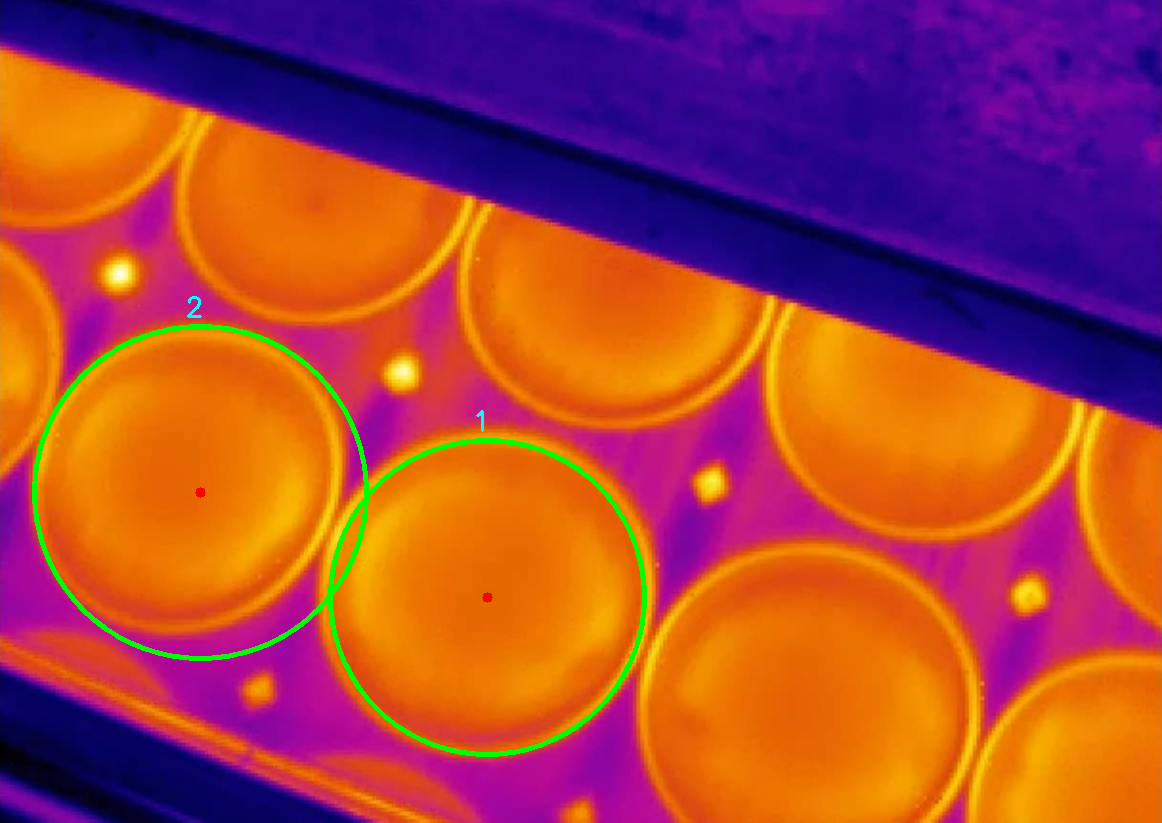
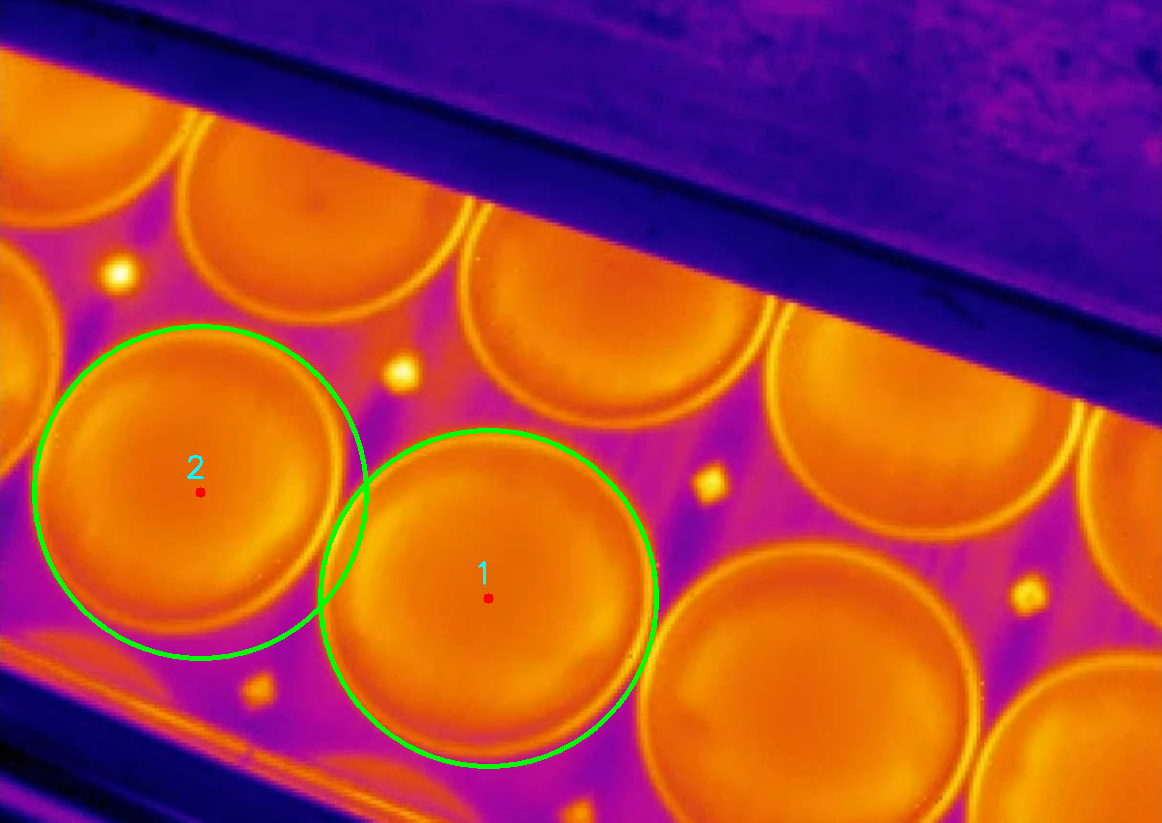
Only 2nd image inaccurate

diff --git a/batch_processor.py b/batch_processor.py
@@ -35,7 +35,7 @@ class ImprovedCircleDetector:
         return enhanced
 
 
-    def define_ROI_thermal(self, show=False):
+    def define_ROI_thermal(self, show=True):
         """Enhanced ROI detection for thermal images using multiple approaches."""
         # Method 1: HSV color-based detection (your original approach)
         hsv = cv2.cvtColor(self.original, cv2.COLOR_BGR2HSV)
@@ -120,13 +120,14 @@ class ImprovedCircleDetector:
         return self.define_ROI_thermal(show)
 
 
-    def is_circle_complete(self, x, y, radius, margin=10):
+    def is_circle_complete(self, x, y, radius, mask, margin=10):
         """
         Check if a circle is completely within the image bounds.
 
         Args:
             x, y: Circle center
             radius: Circle radius
+            mask: ROI mask
             margin: Margin from image edges
 
         Returns:
@@ -134,49 +135,81 @@ class ImprovedCircleDetector:
         """
         x = int(x)
         y = int(y)
-        
-        # Check visual completeness: sample perimeter for continuity
-        enhanced = self.preprocess_thermal_image()
-        num_samples = 72  # Sample every 5 degrees
-        angles = np.linspace(0, 2 * np.pi, num_samples, endpoint=False)
-
-        intensities = []
-        for angle in angles:
-            px = int(x + radius * np.cos(angle))
-            py = int(y + radius * np.sin(angle))
-
-            if 0 <= px < self.width and 0 <= py < self.height:
-                # Sample in small region around perimeter point
-                region = enhanced[max(0, py - 2):min(self.height, py + 3),
-                         max(0, px - 2):min(self.width, px + 3)]
-                intensities.append(np.mean(region))
-
-        if len(intensities) < num_samples * 0.9:  # Should have 90%+ valid samples
-            return False
-
-        intensities = np.array(intensities)
-
-        # Check for consistency: no large gaps or obstructions
-        # Complete circles have relatively uniform perimeter intensity
-        std_dev = np.std(intensities)
-        mean_intensity = np.mean(intensities)
-
-        # Detect gaps: if intensity drops significantly, there's an obstruction
-        min_intensity = np.min(intensities)
-        if mean_intensity > 50 and min_intensity < mean_intensity * 0.4:  # 60% drop
-            return False
-
-        # Check for excessive variation (indicates incomplete/obstructed circle)
-        if std_dev > mean_intensity * 0.5:  # More than 50% variation
-            return False
+        radius = int(radius)
         if (x - radius < margin or
             x + radius > self.width - margin or
             y - radius < margin or
             y + radius > self.height - margin):
+            print(f"Circle at ({x}, {y}) with radius {radius} rejected: too close to image edge.")
             return False
+
+        # Check if circle is within ROI
+        circle_mask = np.zeros_like(mask)
+        cv2.circle(circle_mask, (x, y), radius, 255, thickness=-1)
+        intersection = cv2.bitwise_and(mask, circle_mask)
+        circle_area = np.pi * (radius ** 2)
+        intersection_area = cv2.countNonZero(intersection)
+        if intersection_area < circle_area * 0.95:  # At least 95% within ROI
+            print(f"Circle at ({x}, {y}) with radius {radius} rejected: insufficient ROI coverage.")
+            # show rejected circle and intersection using matplotlib
+            temp_result = self.result.copy()
+            cv2.circle(temp_result, (x, y), radius, (0, 0, 255), 3)
+            fig, axes = plt.subplots(2, 2, figsize=(10, 10))
+            axes[0, 0].imshow(cv2.cvtColor(self.original, cv2.COLOR_BGR2RGB))
+            axes[0, 0].set_title('Original Image')
+            axes[0, 0].axis('off')
+            axes[0, 1].imshow(mask, cmap='gray')
+            axes[0, 1].set_title('ROI Mask')
+            axes[0, 1].axis('off')
+            axes[1, 0].imshow(cv2.cvtColor(temp_result, cv2.COLOR_BGR2RGB))
+            axes[1, 0].set_title('Rejected Circle')
+            axes[1, 0].axis('off')
+            axes[1, 1].imshow(intersection, cmap='gray')
+            axes[1, 1].set_title('Circle & ROI Intersection')
+            axes[1, 1].axis('off')
+            plt.tight_layout()
+            plt.show()
+            return False
+
+        # # Check visual completeness: sample perimeter for continuity
+        # enhanced = self.preprocess_thermal_image()
+        # num_samples = 72  # Sample every 5 degrees
+        # angles = np.linspace(0, 2 * np.pi, num_samples, endpoint=False)
+        #
+        # intensities = []
+        # for angle in angles:
+        #     px = int(x + radius * np.cos(angle))
+        #     py = int(y + radius * np.sin(angle))
+        #
+        #     if 0 <= px < self.width and 0 <= py < self.height:
+        #         # Sample in small region around perimeter point
+        #         region = enhanced[max(0, py - 2):min(self.height, py + 3),
+        #                  max(0, px - 2):min(self.width, px + 3)]
+        #         intensities.append(np.mean(region))
+        #
+        # if len(intensities) < num_samples * 0.9:  # Should have 90%+ valid samples
+        #     print(f"Circle at ({x}, {y}) with radius {radius} rejected: insufficient perimeter samples.")
+        #     return False
+        #
+        # intensities = np.array(intensities)
+        #
+        # # Check for consistency: no large gaps or obstructions
+        # # Complete circles have relatively uniform perimeter intensity
+        # std_dev = np.std(intensities)
+        # mean_intensity = np.mean(intensities)
+        #
+        # # Detect gaps: if intensity drops significantly, there's an obstruction
+        # min_intensity = np.min(intensities)
+        # if mean_intensity > 50 and min_intensity < mean_intensity * 0.4:  # 60% drop
+        #     print(f"Circle at ({x}, {y}) with radius {radius} rejected: detected perimeter gap.")
+        #     return False
+        #
+        # # Check for excessive variation (indicates incomplete/obstructed circle)
+        # if std_dev > mean_intensity * 0.5:  # More than 50% variation
+        #     print(f"Circle at ({x}, {y}) with radius {radius} rejected: high perimeter variation.")
+        #     return False
         return True
 
-        return True
 
     def calculate_circle_quality(self, x, y, radius):
         """
@@ -269,27 +302,31 @@ class ImprovedCircleDetector:
         """
         enhanced = self.preprocess_thermal_image()
 
-        mask = self.define_ROI(show=False)
+        mask = self.define_ROI_thermal(show=False)
 
         # Use more strict Hough parameters
         circles = cv2.HoughCircles(
             enhanced,
             cv2.HOUGH_GRADIENT,
             dp=1,
-            minDist=70,  # Increased minimum distance between circles
+            minDist=90,  # Increased minimum distance between circles
             param1=100,   # Higher Canny threshold
             param2=40,    # Higher accumulator threshold
             minRadius=min_radius,
             maxRadius=max_radius
         )
-        if len(circles) > 0:
-            # show raw detected Circles
-            temp_result = self.original.copy()
-            self.draw_circles(np.uint16(np.around(circles[0])), color=(255, 0, 0), thickness=2)
-            self.visualize_results(np.uint16(np.around(circles[0])))
-
-
         print(f"Detected raw circles: {0 if circles is None else len(circles[0])}")
+
+        if len(circles) > 0:
+            # show detected circles before filtering on a copy of result image
+            temp_result = self.result.copy()
+            raw_circles = np.uint16(np.around(circles[0]))
+            self.draw_circles(raw_circles, color=(255, 0, 0), thickness=3)
+            # display
+            self.visualize_results(raw_circles)
+
+            # reset result image
+            self.result = temp_result
 
         if circles is None:
             return []
@@ -303,7 +340,7 @@ class ImprovedCircleDetector:
             x, y, radius = circle
 
             # Check if circle is complete (within image bounds)
-            if not self.is_circle_complete(x, y, radius):
+            if not self.is_circle_complete(x, y, radius, mask):
                 continue
 
             # Calculate quality score
@@ -311,10 +348,11 @@ class ImprovedCircleDetector:
 
             # Keep only high-quality circles
             if quality >= quality_threshold:
+                print(f"Accepted circle at ({x}, {y}) with radius {radius}, quality: {quality:.2f}")
                 valid_circles.append((int(x), int(y), int(radius), quality))
 
         # Remove overlapping circles
-        valid_circles = self.remove_overlapping_circles(valid_circles, overlap_threshold=0.3)
+        # valid_circles = self.remove_overlapping_circles(valid_circles, overlap_threshold=0.3)
 
         # Return without quality scores
         return [(x, y, r) for x, y, r, q in valid_circles]
@@ -435,7 +473,7 @@ def process_all_images(images_dir='Images', save=True):
 # Example usage
 if __name__ == "__main__":
     # Process single image with visualization
-    # process_image('Images/image5.png', save=True, display=True)
+    process_image('Images/image2.png', save=False, display=True)
 
     # Process all images
-    process_all_images('Images', save=True)
+    # process_all_images('Images', save=True)
